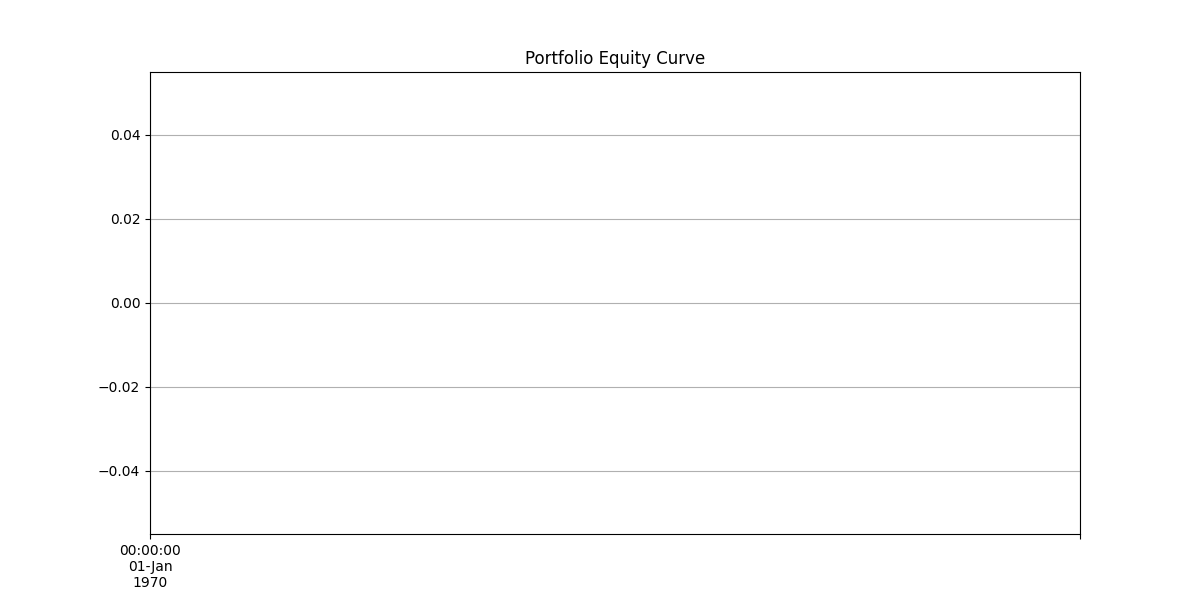
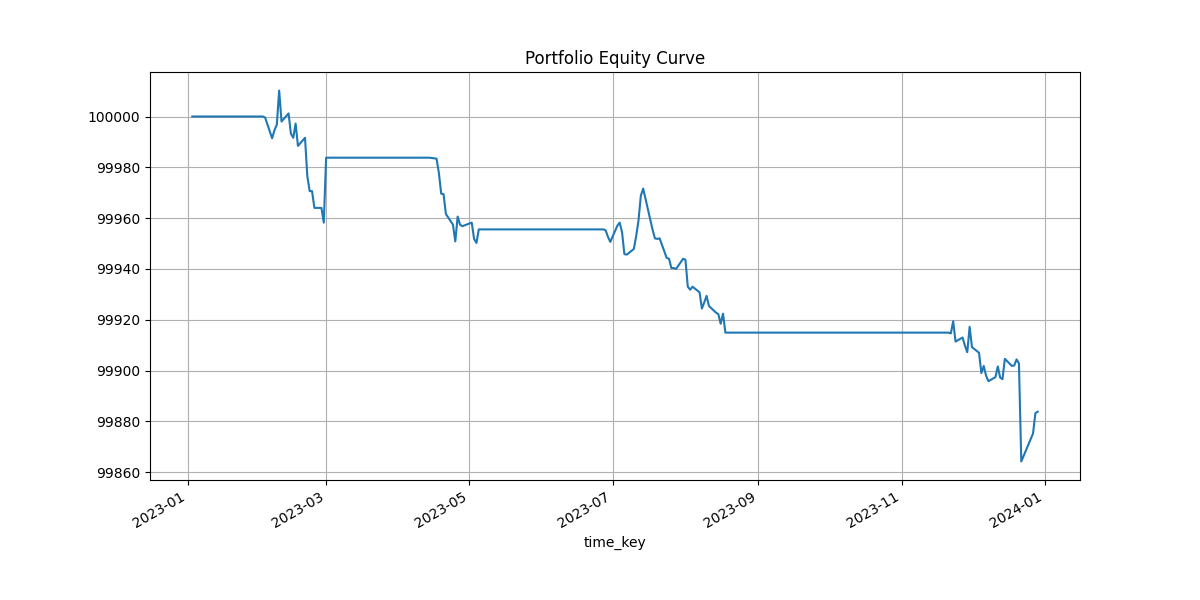
[Backtest] Update _calculate_portfolio logic

diff --git a/src/engine/backtest_engine.py b/src/engine/backtest_engine.py
@@ -40,18 +40,30 @@ class BacktestEngine:
         self.logger.info("Calculated portfolio values")
         
         trades = self._generate_trades_list(data, signals)
+        self.trades = trades  # Store trades for metric calculation
         self.logger.info(f"Generated {len(trades)} trades")
         
+        # Calculate and log metrics
+        metrics = self._calculate_metrics()
+        
         # Log final results
-        final_value = self.portfolio['total'].iloc[-1]
-        total_return = (final_value - self.initial_capital) / self.initial_capital * 100
-        self.logger.info(f"Backtest completed. Final portfolio value: ${final_value:,.2f}")
-        self.logger.info(f"Total return: {total_return:.2f}%")
+        self.logger.info(f"Backtest completed. Final portfolio value: ${self.portfolio['total'].iloc[-1]:,.2f}")
+        self.logger.info(f"Total return: {metrics['total_return']*100:.2f}%")
+        self.logger.info(
+            f"\nPerformance Summary:"
+            f"\nRealized PnL: ${metrics['realized_pnl']:,.2f}"
+            f"\nFloating PnL: ${metrics['floating_pnl']:,.2f}"
+            f"\nTotal PnL: ${metrics['total_pnl']:,.2f}"
+            f"\nWin Rate: {metrics['win_rate']*100:.1f}%"
+            f"\nSharpe Ratio: {metrics['sharpe_ratio']:.2f}"
+            f"\nMax Drawdown: {metrics['max_drawdown']*100:.1f}%"
+        )
         
         report = BacktestReport.from_backtest_results(
             portfolio=self.portfolio,
             trades=trades,
-            initial_capital=self.initial_capital
+            initial_capital=self.initial_capital,
+            metrics=metrics
         )
         
         return report
@@ -62,16 +74,15 @@ class BacktestEngine:
         signals: pd.Series
     ) -> pd.DataFrame:
         """Calculate portfolio value over time"""
-        portfolio = pd.DataFrame(index=data.index)
+        portfolio = pd.DataFrame(index=data['time_key'])
         
         # Ensure the index is datetime
         if not isinstance(portfolio.index, pd.DatetimeIndex):
             portfolio.index = pd.to_datetime(portfolio.index)
-        
         # Track positions and cash
         portfolio['position'] = 0  # Number of units held
-        portfolio['close'] = data['close']
-        
+        portfolio['close'] = pd.to_numeric(data['close'].values)
+
         # Initialize cash with initial capital
         portfolio['cash'] = self.initial_capital
         
@@ -87,13 +98,13 @@ class BacktestEngine:
                     portfolio.loc[portfolio.index[i], 'cash'] = portfolio['cash'].iloc[i-1] - cost
             elif signals[i] == -1 and current_position > 0:  # Sell signal
                 # Sell all units
-                proceeds = current_position * data['close'].iloc[i] * (1 - self.commission)
+                proceeds = current_position * data['close'].iloc[i] * (1 + self.commission)
                 current_position = 0
                 portfolio.loc[portfolio.index[i:], 'position'] = 0
                 portfolio.loc[portfolio.index[i], 'cash'] = portfolio['cash'].iloc[i-1] + proceeds
             else:
                 portfolio.loc[portfolio.index[i], 'cash'] = portfolio['cash'].iloc[i-1]
-        
+
         # Forward fill cash values
         portfolio['cash'] = portfolio['cash'].fillna(method='ffill')
         
@@ -106,21 +117,64 @@ class BacktestEngine:
         
     def _calculate_metrics(self) -> Dict[str, Any]:
         """
-        Calculate performance metrics
+        Calculate comprehensive performance metrics including PnL and risk metrics
+        
+        Returns:
+            Dict containing performance metrics:
+            - total_return: Overall return percentage
+            - annual_return: Annualized return
+            - sharpe_ratio: Risk-adjusted return metric
+            - max_drawdown: Maximum peak to trough decline
+            - win_rate: Percentage of winning trades
+            - realized_pnl: Total realized profit/loss
+            - floating_pnl: Unrealized profit/loss from open positions
+            - total_pnl: Combined realized and floating PnL
         """
-        returns = self.portfolio['returns']
-        total_return = (
-            self.portfolio['total'].iloc[-1] - self.initial_capital
-        ) / self.initial_capital
+        # Calculate basic return metrics
+        returns = self.portfolio['returns'].dropna()
+        total_value = self.portfolio['total'].iloc[-1]
+        total_return = (total_value - self.initial_capital) / self.initial_capital
+        
+        # Calculate PnL metrics from trades
+        realized_pnl = sum(trade['pnl'] for trade in self.trades if trade['type'] == 'sell')
+        
+        # Calculate floating PnL from current positions
+        current_position = self.portfolio['position'].iloc[-1]
+        if current_position > 0:
+            last_buy_trade = next(trade for trade in reversed(self.trades) 
+                                if trade['type'] == 'buy')
+            last_buy_price = last_buy_trade['price']
+            final_price = self.portfolio['close'].iloc[-1]
+            floating_pnl = (final_price - last_buy_price) * current_position
+        else:
+            floating_pnl = 0
+        
+        total_pnl = realized_pnl + floating_pnl
+        
+        # Calculate risk metrics
+        if len(returns) > 0:
+            annual_return = returns.mean() * 252
+            sharpe_ratio = np.sqrt(252) * returns.mean() / returns.std() if returns.std() > 0 else 0
+            max_drawdown = (self.portfolio['total'] / self.portfolio['total'].cummax() - 1).min()
+            
+            # Calculate win rate from completed trades only
+            completed_trades = [t for t in self.trades if t['type'] == 'sell']
+            winning_trades = len([t for t in completed_trades if t['pnl'] > 0])
+            win_rate = winning_trades / len(completed_trades) if completed_trades else 0
+        else:
+            annual_return = sharpe_ratio = max_drawdown = win_rate = 0
         
         metrics = {
             'total_return': total_return,
-            'annual_return': returns.mean() * 252,
-            'sharpe_ratio': np.sqrt(252) * returns.mean() / returns.std(),
-            'max_drawdown': (
-                self.portfolio['total'] / self.portfolio['total'].cummax() - 1
-            ).min(),
-            'win_rate': len(returns[returns > 0]) / len(returns[returns != 0])
+            'annual_return': annual_return,
+            'sharpe_ratio': sharpe_ratio,
+            'max_drawdown': max_drawdown,
+            'win_rate': win_rate,
+            'realized_pnl': realized_pnl,
+            'floating_pnl': floating_pnl,
+            'total_pnl': total_pnl,
+            'total_trades': len(self.trades),
+            'open_positions': current_position
         }
         
         return metrics

diff --git a/src/engine/backtest_report.py b/src/engine/backtest_report.py
@@ -21,9 +21,14 @@ class BacktestReport:
     trades: pd.DataFrame
     equity_curve: pd.Series
     monthly_returns: pd.Series
+    realized_pnl: float
+    floating_pnl: float
+    total_pnl: float
+    total_trades: int
+    open_positions: int
     
     @classmethod
-    def from_backtest_results(cls, portfolio: pd.DataFrame, trades: List[Dict], initial_capital: float):
+    def from_backtest_results(cls, portfolio: pd.DataFrame, trades: List[Dict], initial_capital: float, metrics: Dict[str, Any]):
         """Create a backtest report from raw backtest results"""
         equity_curve = portfolio['total']
         returns = portfolio['returns']
@@ -32,46 +37,29 @@ class BacktestReport:
         if not isinstance(returns.index, pd.DatetimeIndex):
             raise ValueError("Portfolio returns must have a DatetimeIndex")
         
-        # Calculate metrics
-        final_value = equity_curve.iloc[-1]
-        total_return = (final_value - initial_capital) / initial_capital * 100
-        annual_return = (1 + total_return/100) ** (252/len(returns)) - 1
-        
-        # Risk metrics
-        excess_returns = returns - 0.02/252  # Assuming 2% risk-free rate
-        sharpe_ratio = np.sqrt(252) * excess_returns.mean() / excess_returns.std()
-        
-        # Drawdown
-        rolling_max = equity_curve.expanding().max()
-        drawdowns = (equity_curve - rolling_max) / rolling_max
-        max_drawdown = drawdowns.min() * 100
-        
-        # Trade statistics
-        trades_df = pd.DataFrame(trades)
-        winning_trades = trades_df[trades_df['pnl'] > 0]
-        win_rate = len(winning_trades) / len(trades_df) * 100 if len(trades_df) > 0 else 0
-        
-        # Profit factor
-        gross_profit = winning_trades['pnl'].sum() if len(winning_trades) > 0 else 0
-        losing_trades = trades_df[trades_df['pnl'] < 0]
-        gross_loss = abs(losing_trades['pnl'].sum()) if len(losing_trades) > 0 else 0
-        profit_factor = gross_profit / gross_loss if gross_loss != 0 else float('inf')
-        
         # Monthly returns using 'ME' (month end) frequency
         monthly_returns = returns.resample('ME').apply(lambda x: (1 + x).prod() - 1)
         
+        # Create trades DataFrame
+        trades_df = pd.DataFrame(trades)
+        
         return cls(
             initial_capital=initial_capital,
-            final_portfolio_value=final_value,
-            total_return=total_return,
-            annual_return=annual_return * 100,
-            sharpe_ratio=sharpe_ratio,
-            max_drawdown=max_drawdown,
-            win_rate=win_rate,
-            profit_factor=profit_factor,
+            final_portfolio_value=portfolio['total'].iloc[-1],
+            total_return=metrics['total_return'] * 100,  # Convert to percentage
+            annual_return=metrics['annual_return'] * 100,  # Convert to percentage
+            sharpe_ratio=metrics['sharpe_ratio'],
+            max_drawdown=metrics['max_drawdown'] * 100,  # Convert to percentage
+            win_rate=metrics['win_rate'] * 100,  # Convert to percentage
+            profit_factor=metrics['total_pnl'] / abs(metrics['realized_pnl']) if metrics['realized_pnl'] < 0 else float('inf'),
             trades=trades_df,
             equity_curve=equity_curve,
-            monthly_returns=monthly_returns
+            monthly_returns=monthly_returns,
+            realized_pnl=metrics['realized_pnl'],
+            floating_pnl=metrics['floating_pnl'],
+            total_pnl=metrics['total_pnl'],
+            total_trades=metrics['total_trades'],
+            open_positions=metrics['open_positions']
         )
     
     def generate_report(self, output_dir: str = "reports") -> str:
@@ -115,7 +103,11 @@ class BacktestReport:
             "Maximum Drawdown": f"{self.max_drawdown:.2f}%",
             "Win Rate": f"{self.win_rate:.2f}%",
             "Profit Factor": f"{self.profit_factor:.2f}",
-            "Number of Trades": f"{len(self.trades)}"
+            "Number of Trades": f"{self.total_trades}",
+            "Realized PnL": f"${self.realized_pnl:,.2f}",
+            "Floating PnL": f"${self.floating_pnl:,.2f}",
+            "Total PnL": f"${self.total_pnl:,.2f}",
+            "Open Positions": f"{self.open_positions}"
         }
     
     def _generate_plots(self, output_dir: str):
